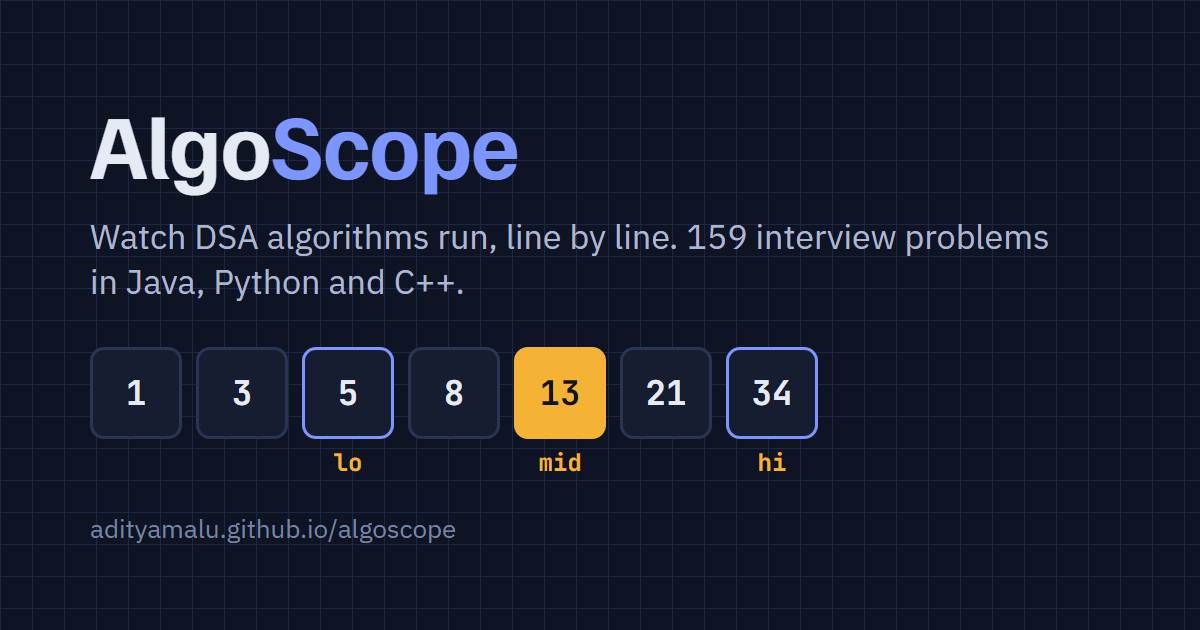
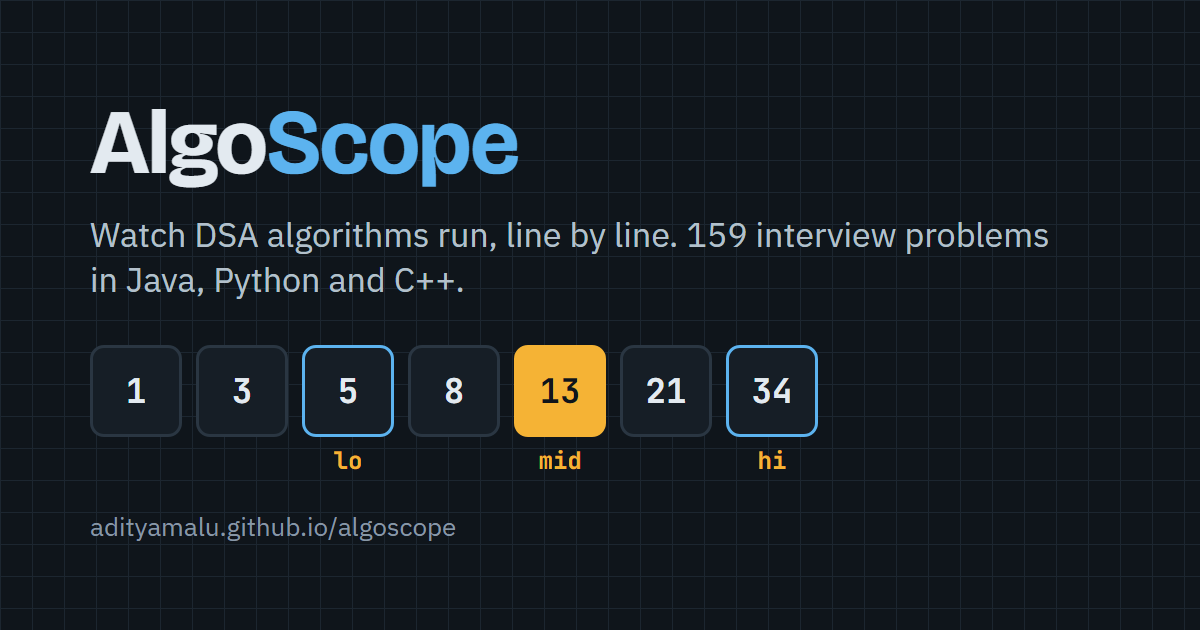
Match the Java/DB Concepts Stepper theme
Swap the indigo palette for the steppers' slate and sky-blue tokens in light
and dark, and use Bricolage Grotesque for display type. Applies to the app,
the generated problem pages, the icon and the link-preview image.

diff --git a/index.html b/index.html
@@ -17,34 +17,34 @@
 <style>html,body{margin:0}body{font:14px system-ui,-apple-system,'Segoe UI',sans-serif}.site-foot{max-width:1360px;margin:0 auto;padding:0 20px 32px;font-size:13px;color:var(--ink-3)}.site-foot a{color:inherit}</style>
 <title>AlgoScope</title>
 <link rel="preconnect" href="https://fonts.googleapis.com">
-<link rel="stylesheet" href="https://fonts.googleapis.com/css2?family=Familjen+Grotesk:wght@500;600;700&family=IBM+Plex+Sans:wght@400;500;600&family=JetBrains+Mono:wght@400;500;700&display=swap">
+<link rel="stylesheet" href="https://fonts.googleapis.com/css2?family=Bricolage+Grotesque:opsz,wght@12..96,500;12..96,600;12..96,700&family=IBM+Plex+Sans:wght@400;500;600&family=JetBrains+Mono:wght@400;500;700&display=swap">
 <script src="https://cdnjs.cloudflare.com/ajax/libs/highlight.js/11.9.0/highlight.min.js" integrity="sha512-D9gUyxqja7hBtkWpPWGt9wfbfaMGVt9gnyCvYa+jojwwPHLCzUm5i8rpk7vD7wNee9bA35eYIjobYPaQuKS1MQ==" crossorigin="anonymous" referrerpolicy="no-referrer"></script>
 <style>
 /* Layout: overview band → code panel (edit/trace) beside a graph-paper stage → report (edge cases, ideas, ask) */
 :root{
-  --paper:#f5f7fb; --surface:#ffffff; --sunk:#eef1f7; --ink:#18213a; --ink-2:#4a5573; --ink-3:#7d87a3;
-  --line:#d9deea; --grid:#e3e8f2; --accent:#2747d9; --accent-ink:#ffffff; --accent-soft:#e3e8fd;
-  --m-active:#f2a516; --m-compare:#e8546b; --m-swap:#8a5cf0; --m-done:#16a38a; --m-found:#14a34a; --m-visit:#5aa0f2; --m-dim:#c9cfdd; --m-error:#d93a3a;
+  --paper:#eef2f5; --surface:#ffffff; --sunk:#f4f7f9; --ink:#15202b; --ink-2:#46535f; --ink-3:#7b8794;
+  --line:#d8e0e7; --grid:#e3e9ee; --accent:#0b6aa8; --accent-ink:#ffffff; --accent-soft:#dcecf7;
+  --m-active:#f2a516; --m-compare:#e8546b; --m-swap:#8a5cf0; --m-done:#16a38a; --m-found:#14a34a; --m-visit:#5aa0f2; --m-dim:#c8d1d9; --m-error:#d93a3a;
   --ok:#14805e; --ok-bg:#ddf3ea; --warn:#9a5b00; --warn-bg:#fdf0d5; --bad:#b4233a; --bad-bg:#fbe1e5;
-  --hl-kw:#8a2bd0; --hl-str:#1a7f43; --hl-num:#b4501a; --hl-com:#8b93a8; --hl-fn:#2747d9; --hl-type:#0f7c8c;
-  --f-display:"Familjen Grotesk","Segoe UI",system-ui,sans-serif;
+  --hl-kw:#8a2bd0; --hl-str:#1a7f43; --hl-num:#b4501a; --hl-com:#8794a0; --hl-fn:#0b6aa8; --hl-type:#0f7c8c;
+  --f-display:"Bricolage Grotesque","Segoe UI",system-ui,sans-serif;
   --f-body:"IBM Plex Sans","Segoe UI",system-ui,sans-serif;
   --f-mono:"JetBrains Mono",ui-monospace,"Cascadia Code",Consolas,monospace;
   --r:10px;
 }
 @media (prefers-color-scheme: dark){:root:not([data-theme="light"]){
-  --paper:#0f1424; --surface:#161d31; --sunk:#1c2440; --ink:#e6eaf5; --ink-2:#aeb7d0; --ink-3:#7a84a3;
-  --line:#2a3454; --grid:#1d2642; --accent:#7d96ff; --accent-ink:#0f1424; --accent-soft:#25305a;
-  --m-active:#f5b335; --m-compare:#f06b80; --m-swap:#a585ff; --m-done:#2cc4a6; --m-found:#33c46a; --m-visit:#6eb0ff; --m-dim:#39435f; --m-error:#ff6161;
+  --paper:#0f151b; --surface:#161e26; --sunk:#1b2530; --ink:#e3eaf0; --ink-2:#b3c0cb; --ink-3:#8797a6;
+  --line:#2a3642; --grid:#1c2630; --accent:#5cb3ef; --accent-ink:#0f151b; --accent-soft:#16334a;
+  --m-active:#f5b335; --m-compare:#f06b80; --m-swap:#a585ff; --m-done:#2cc4a6; --m-found:#33c46a; --m-visit:#6eb0ff; --m-dim:#38444f; --m-error:#ff6161;
   --ok:#5fd7a8; --ok-bg:#163a30; --warn:#f3c26b; --warn-bg:#3d3018; --bad:#ff8b9b; --bad-bg:#43202a;
-  --hl-kw:#c79bff; --hl-str:#7fd99b; --hl-num:#ffad73; --hl-com:#6c7694; --hl-fn:#8fa6ff; --hl-type:#5fd0de;
+  --hl-kw:#c79bff; --hl-str:#7fd99b; --hl-num:#ffad73; --hl-com:#6b7a88; --hl-fn:#7cc2f2; --hl-type:#5fd0de;
   color-scheme:dark}}
 :root[data-theme="dark"]{
-  --paper:#0f1424; --surface:#161d31; --sunk:#1c2440; --ink:#e6eaf5; --ink-2:#aeb7d0; --ink-3:#7a84a3;
-  --line:#2a3454; --grid:#1d2642; --accent:#7d96ff; --accent-ink:#0f1424; --accent-soft:#25305a;
-  --m-active:#f5b335; --m-compare:#f06b80; --m-swap:#a585ff; --m-done:#2cc4a6; --m-found:#33c46a; --m-visit:#6eb0ff; --m-dim:#39435f; --m-error:#ff6161;
+  --paper:#0f151b; --surface:#161e26; --sunk:#1b2530; --ink:#e3eaf0; --ink-2:#b3c0cb; --ink-3:#8797a6;
+  --line:#2a3642; --grid:#1c2630; --accent:#5cb3ef; --accent-ink:#0f151b; --accent-soft:#16334a;
+  --m-active:#f5b335; --m-compare:#f06b80; --m-swap:#a585ff; --m-done:#2cc4a6; --m-found:#33c46a; --m-visit:#6eb0ff; --m-dim:#38444f; --m-error:#ff6161;
   --ok:#5fd7a8; --ok-bg:#163a30; --warn:#f3c26b; --warn-bg:#3d3018; --bad:#ff8b9b; --bad-bg:#43202a;
-  --hl-kw:#c79bff; --hl-str:#7fd99b; --hl-num:#ffad73; --hl-com:#6c7694; --hl-fn:#8fa6ff; --hl-type:#5fd0de;
+  --hl-kw:#c79bff; --hl-str:#7fd99b; --hl-num:#ffad73; --hl-com:#6b7a88; --hl-fn:#7cc2f2; --hl-type:#5fd0de;
   color-scheme:dark}
 
 *{box-sizing:border-box}

diff --git a/app.html b/app.html
@@ -1,34 +1,34 @@
 <meta charset="utf-8">
 <title>AlgoScope</title>
 <link rel="preconnect" href="https://fonts.googleapis.com">
-<link rel="stylesheet" href="https://fonts.googleapis.com/css2?family=Familjen+Grotesk:wght@500;600;700&family=IBM+Plex+Sans:wght@400;500;600&family=JetBrains+Mono:wght@400;500;700&display=swap">
+<link rel="stylesheet" href="https://fonts.googleapis.com/css2?family=Bricolage+Grotesque:opsz,wght@12..96,500;12..96,600;12..96,700&family=IBM+Plex+Sans:wght@400;500;600&family=JetBrains+Mono:wght@400;500;700&display=swap">
 <script src="https://cdnjs.cloudflare.com/ajax/libs/highlight.js/11.9.0/highlight.min.js" integrity="sha512-D9gUyxqja7hBtkWpPWGt9wfbfaMGVt9gnyCvYa+jojwwPHLCzUm5i8rpk7vD7wNee9bA35eYIjobYPaQuKS1MQ==" crossorigin="anonymous" referrerpolicy="no-referrer"></script>
 <style>
 /* Layout: overview band → code panel (edit/trace) beside a graph-paper stage → report (edge cases, ideas, ask) */
 :root{
-  --paper:#f5f7fb; --surface:#ffffff; --sunk:#eef1f7; --ink:#18213a; --ink-2:#4a5573; --ink-3:#7d87a3;
-  --line:#d9deea; --grid:#e3e8f2; --accent:#2747d9; --accent-ink:#ffffff; --accent-soft:#e3e8fd;
-  --m-active:#f2a516; --m-compare:#e8546b; --m-swap:#8a5cf0; --m-done:#16a38a; --m-found:#14a34a; --m-visit:#5aa0f2; --m-dim:#c9cfdd; --m-error:#d93a3a;
+  --paper:#eef2f5; --surface:#ffffff; --sunk:#f4f7f9; --ink:#15202b; --ink-2:#46535f; --ink-3:#7b8794;
+  --line:#d8e0e7; --grid:#e3e9ee; --accent:#0b6aa8; --accent-ink:#ffffff; --accent-soft:#dcecf7;
+  --m-active:#f2a516; --m-compare:#e8546b; --m-swap:#8a5cf0; --m-done:#16a38a; --m-found:#14a34a; --m-visit:#5aa0f2; --m-dim:#c8d1d9; --m-error:#d93a3a;
   --ok:#14805e; --ok-bg:#ddf3ea; --warn:#9a5b00; --warn-bg:#fdf0d5; --bad:#b4233a; --bad-bg:#fbe1e5;
-  --hl-kw:#8a2bd0; --hl-str:#1a7f43; --hl-num:#b4501a; --hl-com:#8b93a8; --hl-fn:#2747d9; --hl-type:#0f7c8c;
-  --f-display:"Familjen Grotesk","Segoe UI",system-ui,sans-serif;
+  --hl-kw:#8a2bd0; --hl-str:#1a7f43; --hl-num:#b4501a; --hl-com:#8794a0; --hl-fn:#0b6aa8; --hl-type:#0f7c8c;
+  --f-display:"Bricolage Grotesque","Segoe UI",system-ui,sans-serif;
   --f-body:"IBM Plex Sans","Segoe UI",system-ui,sans-serif;
   --f-mono:"JetBrains Mono",ui-monospace,"Cascadia Code",Consolas,monospace;
   --r:10px;
 }
 @media (prefers-color-scheme: dark){:root:not([data-theme="light"]){
-  --paper:#0f1424; --surface:#161d31; --sunk:#1c2440; --ink:#e6eaf5; --ink-2:#aeb7d0; --ink-3:#7a84a3;
-  --line:#2a3454; --grid:#1d2642; --accent:#7d96ff; --accent-ink:#0f1424; --accent-soft:#25305a;
-  --m-active:#f5b335; --m-compare:#f06b80; --m-swap:#a585ff; --m-done:#2cc4a6; --m-found:#33c46a; --m-visit:#6eb0ff; --m-dim:#39435f; --m-error:#ff6161;
+  --paper:#0f151b; --surface:#161e26; --sunk:#1b2530; --ink:#e3eaf0; --ink-2:#b3c0cb; --ink-3:#8797a6;
+  --line:#2a3642; --grid:#1c2630; --accent:#5cb3ef; --accent-ink:#0f151b; --accent-soft:#16334a;
+  --m-active:#f5b335; --m-compare:#f06b80; --m-swap:#a585ff; --m-done:#2cc4a6; --m-found:#33c46a; --m-visit:#6eb0ff; --m-dim:#38444f; --m-error:#ff6161;
   --ok:#5fd7a8; --ok-bg:#163a30; --warn:#f3c26b; --warn-bg:#3d3018; --bad:#ff8b9b; --bad-bg:#43202a;
-  --hl-kw:#c79bff; --hl-str:#7fd99b; --hl-num:#ffad73; --hl-com:#6c7694; --hl-fn:#8fa6ff; --hl-type:#5fd0de;
+  --hl-kw:#c79bff; --hl-str:#7fd99b; --hl-num:#ffad73; --hl-com:#6b7a88; --hl-fn:#7cc2f2; --hl-type:#5fd0de;
   color-scheme:dark}}
 :root[data-theme="dark"]{
-  --paper:#0f1424; --surface:#161d31; --sunk:#1c2440; --ink:#e6eaf5; --ink-2:#aeb7d0; --ink-3:#7a84a3;
-  --line:#2a3454; --grid:#1d2642; --accent:#7d96ff; --accent-ink:#0f1424; --accent-soft:#25305a;
-  --m-active:#f5b335; --m-compare:#f06b80; --m-swap:#a585ff; --m-done:#2cc4a6; --m-found:#33c46a; --m-visit:#6eb0ff; --m-dim:#39435f; --m-error:#ff6161;
+  --paper:#0f151b; --surface:#161e26; --sunk:#1b2530; --ink:#e3eaf0; --ink-2:#b3c0cb; --ink-3:#8797a6;
+  --line:#2a3642; --grid:#1c2630; --accent:#5cb3ef; --accent-ink:#0f151b; --accent-soft:#16334a;
+  --m-active:#f5b335; --m-compare:#f06b80; --m-swap:#a585ff; --m-done:#2cc4a6; --m-found:#33c46a; --m-visit:#6eb0ff; --m-dim:#38444f; --m-error:#ff6161;
   --ok:#5fd7a8; --ok-bg:#163a30; --warn:#f3c26b; --warn-bg:#3d3018; --bad:#ff8b9b; --bad-bg:#43202a;
-  --hl-kw:#c79bff; --hl-str:#7fd99b; --hl-num:#ffad73; --hl-com:#6c7694; --hl-fn:#8fa6ff; --hl-type:#5fd0de;
+  --hl-kw:#c79bff; --hl-str:#7fd99b; --hl-num:#ffad73; --hl-com:#6b7a88; --hl-fn:#7cc2f2; --hl-type:#5fd0de;
   color-scheme:dark}
 
 *{box-sizing:border-box}

diff --git a/tools/make_pages.py b/tools/make_pages.py
@@ -12,16 +12,16 @@ SITE = "https://adityamalu.github.io/algoscope/"
 root = os.path.dirname(os.path.dirname(os.path.abspath(__file__)))
 
 CSS = """
-:root{--paper:#f5f7fb;--surface:#fff;--sunk:#eef1f7;--ink:#18213a;--ink-2:#4a5573;--ink-3:#7d87a3;--line:#d9deea;--accent:#2747d9;--accent-ink:#fff;--ok:#14805e;--ok-bg:#ddf3ea;--warn:#9a5b00;--warn-bg:#fdf0d5;--bad:#b4233a;--bad-bg:#fbe1e5}
-@media (prefers-color-scheme:dark){:root{--paper:#0f1424;--surface:#161d31;--sunk:#1c2440;--ink:#e6eaf5;--ink-2:#aeb7d0;--ink-3:#7a84a3;--line:#2a3454;--accent:#7d96ff;--accent-ink:#0f1424;--ok:#5fd7a8;--ok-bg:#163a30;--warn:#f3c26b;--warn-bg:#3d3018;--bad:#ff8b9b;--bad-bg:#43202a;color-scheme:dark}}
+:root{--paper:#eef2f5;--surface:#fff;--sunk:#f4f7f9;--ink:#15202b;--ink-2:#46535f;--ink-3:#7b8794;--line:#d8e0e7;--accent:#0b6aa8;--accent-ink:#fff;--ok:#14805e;--ok-bg:#ddf3ea;--warn:#9a5b00;--warn-bg:#fdf0d5;--bad:#b4233a;--bad-bg:#fbe1e5}
+@media (prefers-color-scheme:dark){:root{--paper:#0f151b;--surface:#161e26;--sunk:#1b2530;--ink:#e3eaf0;--ink-2:#b3c0cb;--ink-3:#8797a6;--line:#2a3642;--accent:#5cb3ef;--accent-ink:#0f151b;--ok:#5fd7a8;--ok-bg:#163a30;--warn:#f3c26b;--warn-bg:#3d3018;--bad:#ff8b9b;--bad-bg:#43202a;color-scheme:dark}}
 *{box-sizing:border-box}
 body{margin:0;background:var(--paper);color:var(--ink);font:16px/1.6 "IBM Plex Sans","Segoe UI",system-ui,sans-serif}
 main{max-width:860px;margin:0 auto;padding:20px 16px 64px}
 a{color:var(--accent)}
 nav.top{display:flex;gap:14px;align-items:center;font-size:14px;margin-bottom:18px}
-nav.top .brand{font:700 18px "Familjen Grotesk","Segoe UI",system-ui,sans-serif;color:var(--ink);text-decoration:none;margin-right:auto}
-h1{font:700 clamp(26px,5vw,36px)/1.15 "Familjen Grotesk","Segoe UI",system-ui,sans-serif;margin:0 0 8px}
-h2{font:700 20px "Familjen Grotesk","Segoe UI",system-ui,sans-serif;margin:28px 0 8px}
+nav.top .brand{font:700 18px "Bricolage Grotesque","Segoe UI",system-ui,sans-serif;color:var(--ink);text-decoration:none;margin-right:auto}
+h1{font:700 clamp(26px,5vw,36px)/1.15 "Bricolage Grotesque","Segoe UI",system-ui,sans-serif;margin:0 0 8px}
+h2{font:700 20px "Bricolage Grotesque","Segoe UI",system-ui,sans-serif;margin:28px 0 8px}
 .meta{display:flex;flex-wrap:wrap;gap:8px;margin-bottom:14px}
 .pill{font-size:12px;font-weight:600;letter-spacing:.04em;text-transform:uppercase;padding:3px 9px;border-radius:99px;background:var(--sunk);color:var(--ink-2)}
 .easy{background:var(--ok-bg);color:var(--ok)} .medium{background:var(--warn-bg);color:var(--warn)} .hard{background:var(--bad-bg);color:var(--bad)}
@@ -44,7 +44,7 @@ ul.plist li{break-inside:avoid;padding:3px 0}
 """
 
 FONTS = ('<link rel="preconnect" href="https://fonts.googleapis.com">\n'
-         '<link rel="stylesheet" href="https://fonts.googleapis.com/css2?family=Familjen+Grotesk:wght@700'
+         '<link rel="stylesheet" href="https://fonts.googleapis.com/css2?family=Bricolage+Grotesque:opsz,wght@12..96,700'
          '&family=IBM+Plex+Sans:wght@400;600&family=JetBrains+Mono:wght@400&display=swap">')
 CSP = ("default-src 'none'; style-src 'unsafe-inline' https://fonts.googleapis.com; font-src https://fonts.gstatic.com; "
        "img-src 'self'; base-uri 'none'; form-action 'none'")

diff --git a/tools/og_image.py b/tools/og_image.py
@@ -14,17 +14,17 @@ cells = "".join(
     f'<div class="c"><div class="b{" on" if p == "mid" else " in" if p else ""}">{v}</div><div class="p">{p}</div></div>' for v, p in CELLS)
 
 HTML = f"""<!doctype html><html><head><meta charset="utf-8">
-<link rel="stylesheet" href="https://fonts.googleapis.com/css2?family=Familjen+Grotesk:wght@700&family=IBM+Plex+Sans:wght@400;600&family=JetBrains+Mono:wght@500;700&display=swap">
+<link rel="stylesheet" href="https://fonts.googleapis.com/css2?family=Bricolage+Grotesque:opsz,wght@12..96,700&family=IBM+Plex+Sans:wght@400;600&family=JetBrains+Mono:wght@500;700&display=swap">
 <style>
-body{{margin:0;width:1200px;height:630px;background:#0f1424;color:#e6eaf5;font-family:"IBM Plex Sans",sans-serif;display:flex;flex-direction:column;justify-content:center;padding:0 90px;box-sizing:border-box;
-background-image:linear-gradient(#1d2642 1px,transparent 1px),linear-gradient(90deg,#1d2642 1px,transparent 1px);background-size:32px 32px}}
-h1{{font:700 92px "Familjen Grotesk",sans-serif;margin:0;letter-spacing:-1px}} h1 span{{color:#7d96ff}}
-p{{font-size:34px;margin:14px 0 44px;color:#aeb7d0;max-width:960px;line-height:1.3}}
+body{{margin:0;width:1200px;height:630px;background:#0f151b;color:#e3eaf0;font-family:"IBM Plex Sans",sans-serif;display:flex;flex-direction:column;justify-content:center;padding:0 90px;box-sizing:border-box;
+background-image:linear-gradient(#1c2630 1px,transparent 1px),linear-gradient(90deg,#1c2630 1px,transparent 1px);background-size:32px 32px}}
+h1{{font:700 92px "Bricolage Grotesque",sans-serif;margin:0;letter-spacing:-1px}} h1 span{{color:#5cb3ef}}
+p{{font-size:34px;margin:14px 0 44px;color:#b3c0cb;max-width:960px;line-height:1.3}}
 .row{{display:flex;gap:14px}} .c{{display:flex;flex-direction:column;align-items:center;gap:8px}}
-.b{{width:86px;height:86px;border-radius:14px;background:#161d31;border:3px solid #2a3454;display:flex;align-items:center;justify-content:center;font:700 34px "JetBrains Mono",monospace}}
-.b.in{{border-color:#7d96ff}} .b.on{{background:#f5b335;border-color:#f5b335;color:#0f1424}}
+.b{{width:86px;height:86px;border-radius:14px;background:#161e26;border:3px solid #2a3642;display:flex;align-items:center;justify-content:center;font:700 34px "JetBrains Mono",monospace}}
+.b.in{{border-color:#5cb3ef}} .b.on{{background:#f5b335;border-color:#f5b335;color:#0f151b}}
 .p{{height:30px;font:600 24px "JetBrains Mono",monospace;color:#f5b335}}
-.foot{{margin-top:34px;font-size:26px;color:#7a84a3}}
+.foot{{margin-top:34px;font-size:26px;color:#8797a6}}
 </style></head><body>
 <h1>Algo<span>Scope</span></h1>
 <p>Watch DSA algorithms run, line by line. 159 interview problems in Java, Python and C++.</p>
